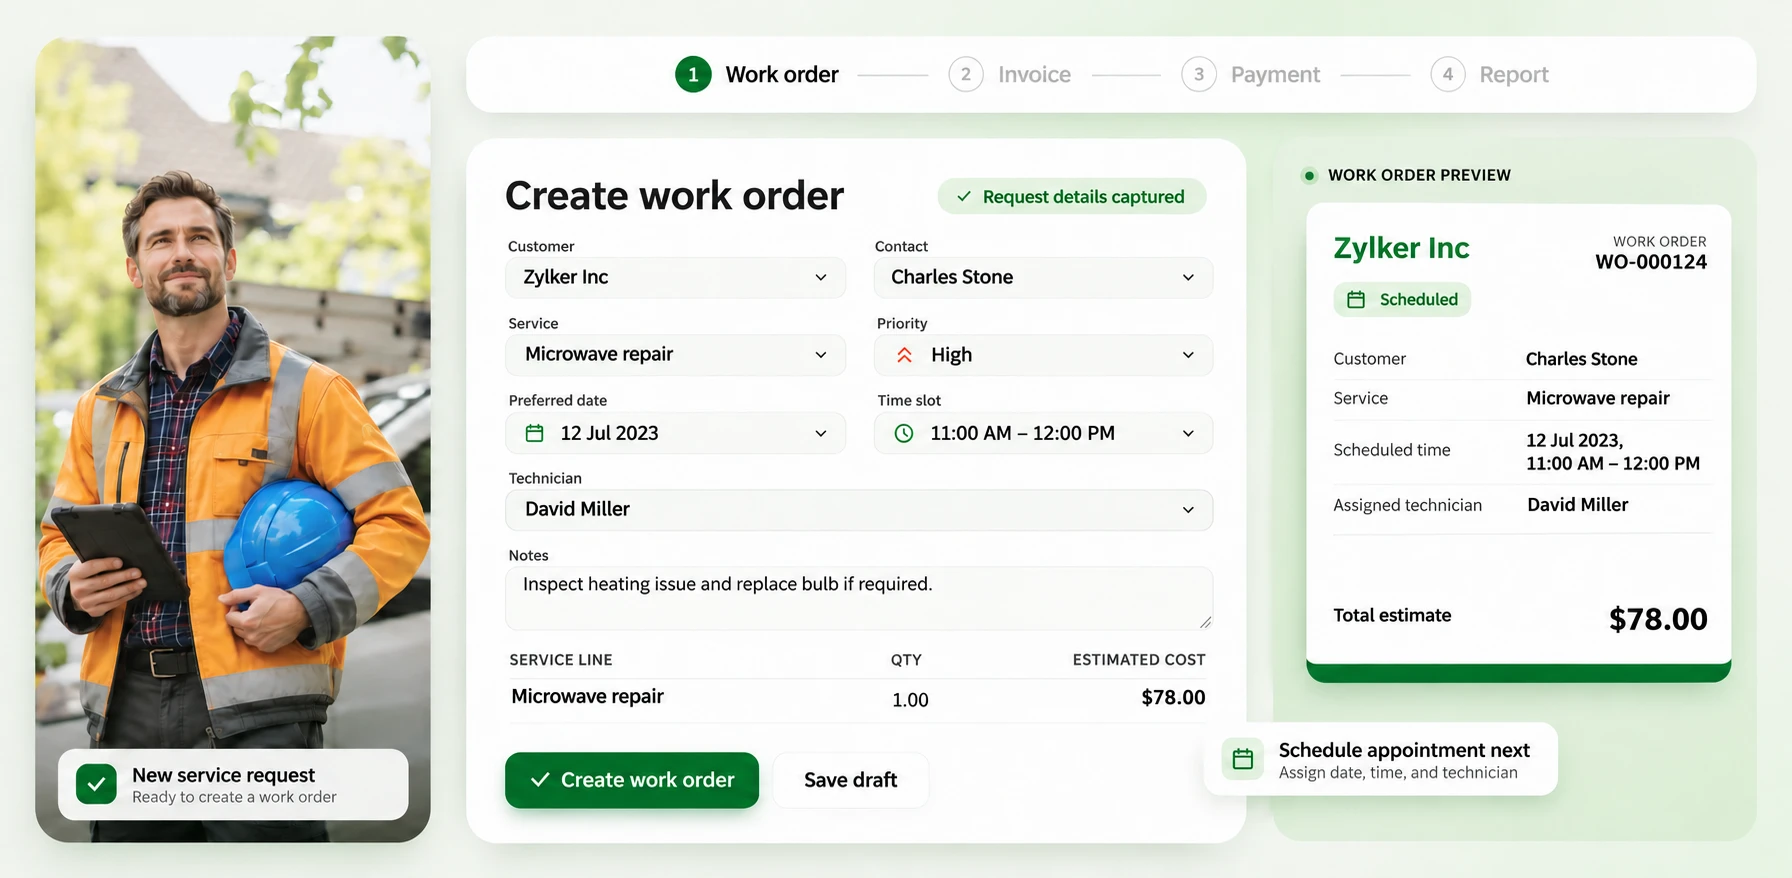
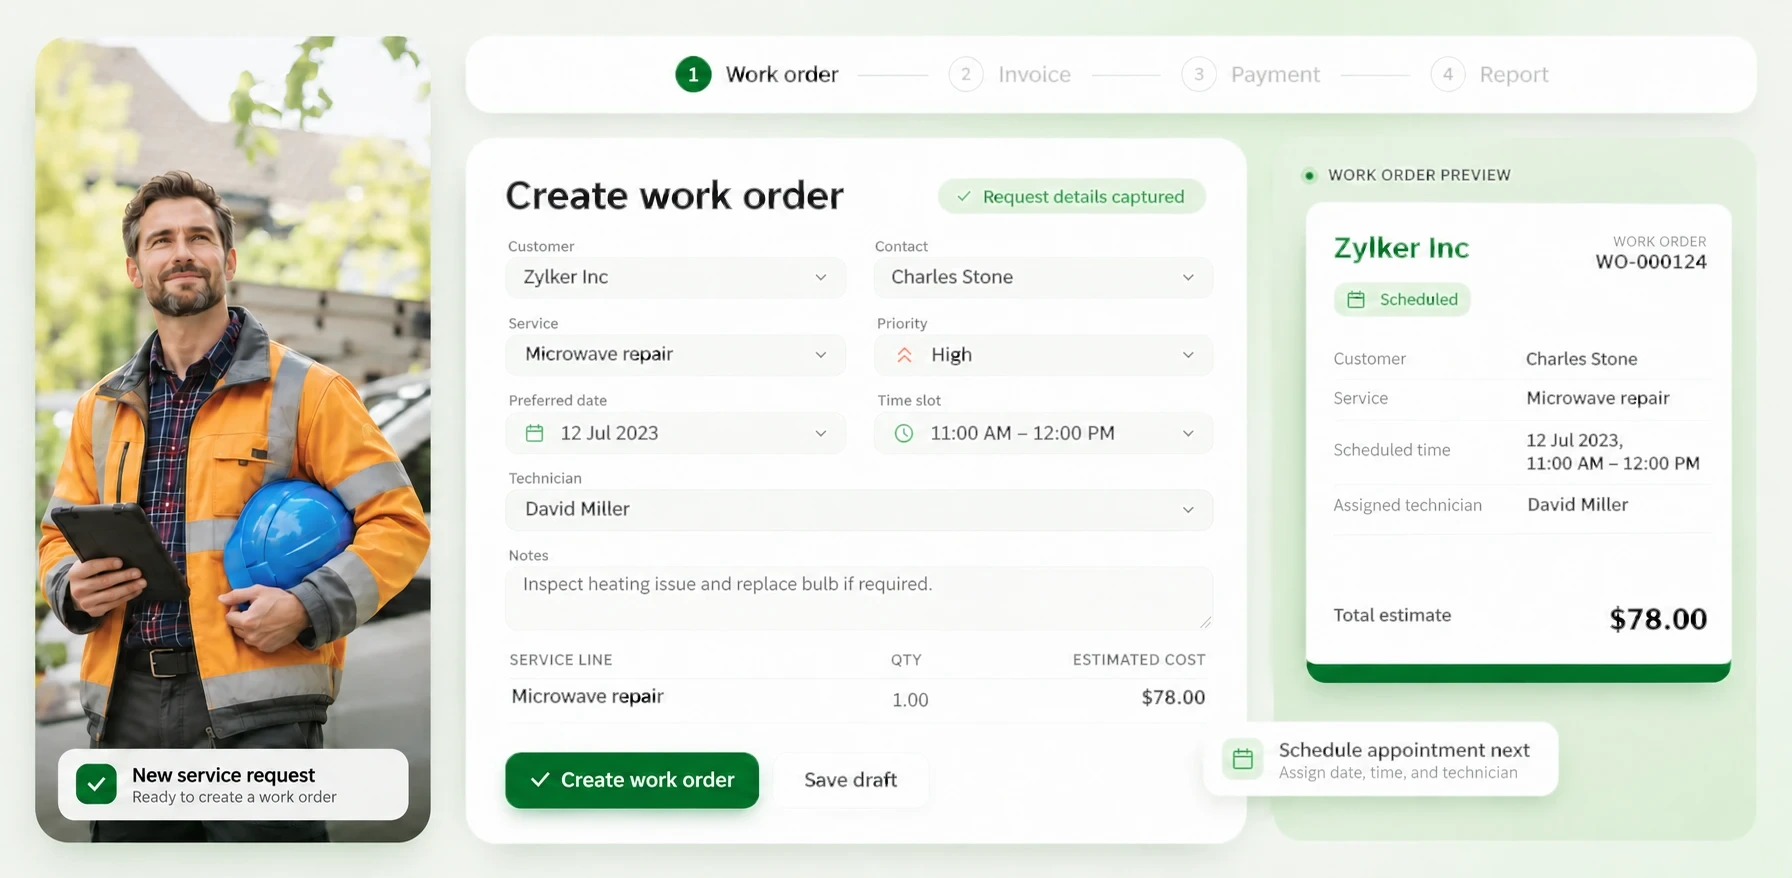
Efficient Operations: lighter text weight in the four slide images

diff --git a/efficient-operations.js b/efficient-operations.js
@@ -139,7 +139,7 @@
   var ALTS = ['Create work order: Zylker Inc, microwave repair, technician David Miller, with a live work order preview.','Create invoice auto-filled from the work order: microwave repair and bulb, total $88.50, with a live invoice preview.','Record payment of $88.50 by credit card against invoice INV-000008, with a payment receipt preview.','Create service report with completed checklist, customer rating and signature, with a service report preview.'];
   stage.innerHTML = SLIDES.map(function (s, i) {
     return '<div class="eo-slide" id="eo-slide-' + s.id + '" role="group" aria-roledescription="slide" aria-label="' + (i + 1) + ' of ' + len + ': ' + s.label + '">' +
-      '<img class="eo-slide__img" src="assets/eo-slide-' + (i + 1) + '.webp?v=1" width="1792" height="878" loading="' + (i === 0 ? 'eager' : 'lazy') + '" alt="' + ALTS[i] + '"></div>';
+      '<img class="eo-slide__img" src="assets/eo-slide-' + (i + 1) + '.webp?v=2" width="1792" height="878" loading="' + (i === 0 ? 'eager' : 'lazy') + '" alt="' + ALTS[i] + '"></div>';
   }).join('');
   var panels = Array.prototype.slice.call(stage.children);
 

diff --git a/index.html b/index.html
@@ -603,7 +603,7 @@
 
 </div>
 <script src="script.js?v=20261126c"></script>
-<script src="efficient-operations.js?v=20261126g"></script>
+<script src="efficient-operations.js?v=20261126j"></script>
 </body>
 </html>
 <script async src="/.netlify/scripts/hud?variant=public" data-nf-variant="public" data-netlify-site-id="3e9d8538-6c42-4638-ade6-421948df8d9c" data-app-host="app.netlify.com" data-account-tier="free"></script>
